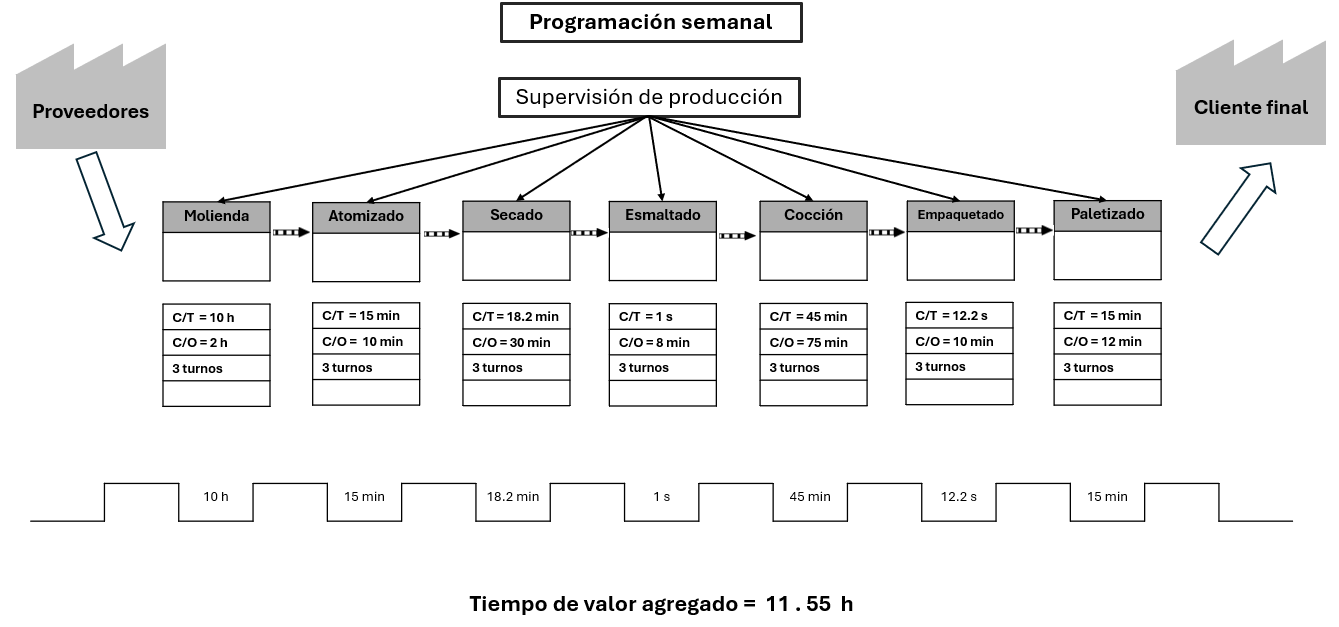
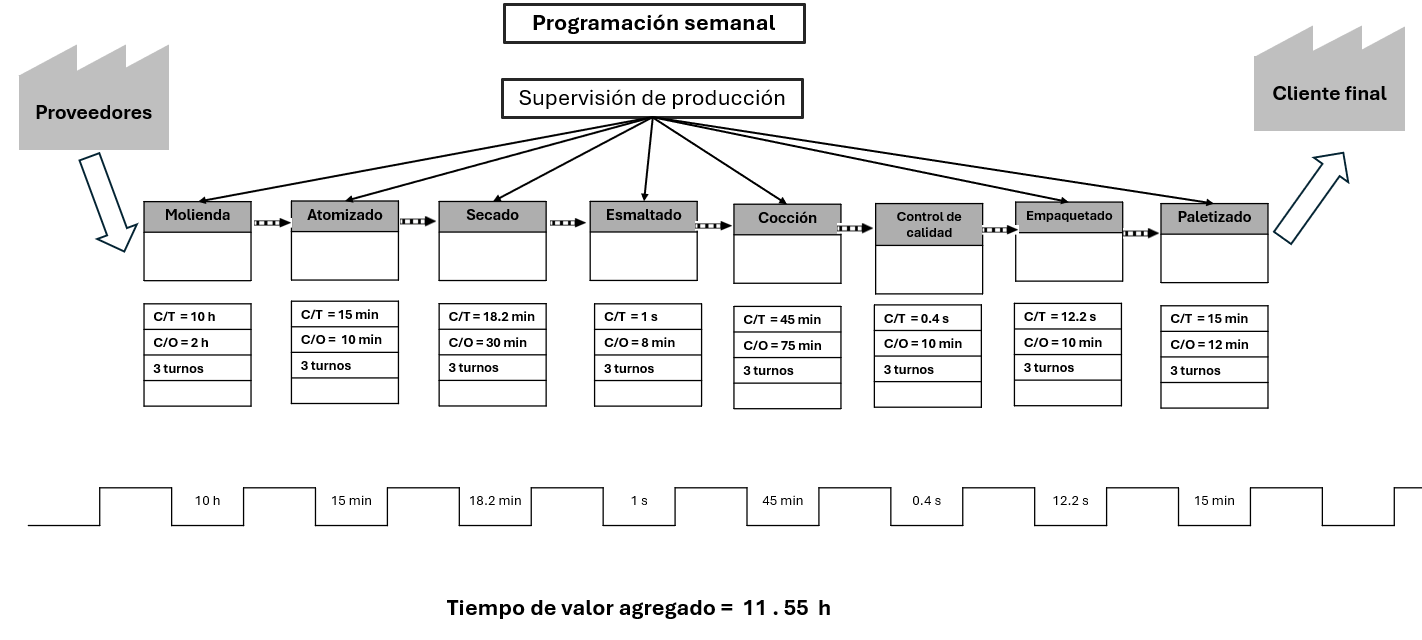
[DOCS]: control de calidad

diff --git a/docs/producto/3-analisis-economico.md b/docs/producto/3-analisis-economico.md
@@ -3,23 +3,40 @@
 El análisis económico se realiza con el fin de determinar la viabilidad del proyecto y evaluar su rentabilidad. Para ello se inicia por determinar el número de baldosas producidas por mes antes de la intervención, basados en la capacidad de producción de la planta y el tiempo de operación establecidos en la [gestión de producción](5-gestion-produccion#cuellos-de-botella-y-áreas-de-mejora).
 
 
-## Análisis de ingresos y egresos  mensuales por producción
+## Análisis de ingresos y egresos  mensuales de la fábrica
+
+Se inicia por hacer un estudio y determinar como era la situación de la fábrica antes de la intervención. Para tener una base de los costos de producción asi como los ingresos recibidos para fundamentar los beneficios que produce de la propuesta de automatización.
+
+## Antes de intervención
 
 ### Ingresos
 
+Basados en la producción bruta de baldosas mensuales se calcula el ingreso mensual de la fábrica. Se tiene que el 80% de las baldosas son de calidad tipo 1 y el 20% restante de calidad tipo 2. Basado en el costo de mercado de los productos de referencia Corona que fueron adaptados para definir los productos de la fabrica se tiene que el costo la caja de baldosas de de $38.113 COP para calidad tipo 1 y  30800 para las baldosas de calidad tipo 2.
+Obeniendo un ingreso de ventas de $5.399 millones de pesos mensuales.
+![ingrso](analisis-economico/before/ingresos.png)
+
 ### Costos de producción
 
-Para determinar los costos de producción se consideran los costos de insumos, mano de obra y otros costos asociados a la producción de baldosas cerámicas.
+Por otro lado para determinar los costos de producción se consideran los costos de insumos, mano de obra, costos de servicio de energia gas y agua; asi como los otros gastos asociados a la producción de baldosas cerámicas, como lo pueden ser el overhead de administración de la fabrica.
 
 #### Costos de insumos
+Para el cálculo de los costos de insumos se consideran los costos de las materias primas necesarias para la producción de baldosas cerámicas. Teniendo la producción mensual de baldosas asy como su peso de 522 g se calcula la cantidad de material necesario. se descompuso respecto a su porcentaje de composición de  Se tiene que el costo de las materias primas es de $ 2.231.422.848 COP mensuales.
+$$ *522 g =  [kg]$$
 
-![costos insumos](analisis-economico/costos-insumos.png)
+- Arcilla	49,01%
+- Feldespatos	24,51%
+- Arenas	14,70%
+- Carbonatos	6,86%
+- Caolines	2,94%
+- Esmalte	1,97%
+
+![costos insumos](analisis-economico/before/costos-insumos.png)
 
 #### Costo recursos Humano
 
 La planta antes de la intervención requiere el siguiente recurso humano. Para cubrir un puesto de trabajo 24 horas se requieren 4 cargos. En el costo mensual de cada cargo se incluye el salario básico más: las prestaciones sociales, los aportes a seguridad social (salud, pensiones y riesgos profesionales); la parafiscalidad (beneficios de caja de compensación familiar, SENA y ICBF); dotaciones y elementos de protección personal según lo establecido en el código sustantivo del trabajo. Estos costos corresponden aproximadamente a un 56% adicional al salario base del trabajador. Causandose un costo mensual de $212.472.000  COP.
 
-![costos recurso humano](analisis-economico/recurso-humano.png)
+![costos recurso humano](analisis-economico/before/recurso-humano.png)
 
 
 Se hace un estimado del costo incurrido por la fabrica de baldosas.
@@ -43,7 +60,8 @@ Se hace un estimado del costo incurrido por la fabrica de baldosas.
 <embed src="/Tile-Tech/analisis-economico/analisis-economico-ACTUAL.pdf" type="application/pdf" width="100%" height="600px" />
 </details>
 
-## Costos de inversión
+
+## Análisis económico del proyecto
 
 Para ello, se consideran los costos de inversión, los costos operativos, los ingresos esperados y el periodo de recuperación de la inversión.
 

diff --git a/docs/producto/5-gestion-produccion.md b/docs/producto/5-gestion-produccion.md
@@ -59,7 +59,7 @@ En la siguiente tabla se puede ver la capacidad de producción de cada proceso:
 
 Esto nos permite identificar que los cuellos de botella se encuentran en los procesos de esmaltado, empaquetado y paletizado.
 
-Viendo que el cuello de botella que restringe el proceso se encuentra en el esmaltado se establece el volumen real de producción de la planta. Para ello se  calcula la reducción de capacidad causada por perdidas debido a la calidad a la disponibilidad de la fabrica. Para la calidad no se toma el valor de calidad general de la planta ya que perdidas por calidad en procesos anteriores a la esmaltadora pueden compensarse con la capacidad excedente de producción que se tiene en estos procesos. Se calcula la calidad a partir del esmaltado que incluye los procesos de decorado, cocción y empaquetado obteniendo una calidad de 96.13%.
+Viendo que el cuello de botella que restringe el proceso se encuentra en el esmaltado se establece el volumen real de producción de la planta. Para ello se  calcula la reducción de capacidad causada por perdidas debido a la calidad a la disponibilidad de la fábrica. Para la calidad no se toma el valor de calidad general de la planta ya que perdidas por calidad en procesos anteriores a la esmaltadora pueden compensarse con la capacidad excedente de producción que se tiene en estos procesos. Se calcula la calidad a partir del esmaltado que incluye los procesos de decorado, cocción y empaquetado obteniendo una calidad de 96.13%.
 
 $$ Q = 0.9907*0.9906*0.9985*0.981=0.9613$$
 
@@ -102,13 +102,20 @@ A continuación se muestra un video donde se evidencia la simulación de la plan
 
 A continuación se anexan los reportes de la simulación de la planta antes y después de la intervención.
 
-## Reporte de tecnomatix previo a intervención
 
+## Reporte de tecnomatix 
+
+<details>
+  <summary> Anexo reporte de tecnomatix previo a intervención </summary>
 <iframe src="/Tile-Tech/report_tecnomatix_previous.pdf" type="application/pdf" width="100%" height="600px" ></iframe>
 
+</details>
 
-## Reporte de tecnomatix posterior a intervención
+<details>
+  <summary> Anexo reporte de tecnomatix posterior a intervención </summary>
 <iframe src="/Tile-Tech/report_tecnomatix_after.pdf" type="application/pdf" width="100%" height="600px" ></iframe>
+
+</details>
 
 
 
@@ -118,4 +125,5 @@ A continuación se anexan los reportes de la simulación de la planta antes y de
 -->
 
 ## Referencias
+
 1. 

diff --git a/docs/producto/1-analisis-disenio.md b/docs/producto/1-analisis-disenio.md
@@ -192,6 +192,14 @@ $ 14 * 3 * 3.5 m/min (60 min/h) = 8820 u/h$
 
 ![](analisis-disenio/1horno-maestro.png)
 
+### Control de calidad:
+
+Debido a procesos inherentes dentro de la fabricación de baldosas se tienen fluctuaciones en la calidad del producto. Dentro de la estación de control de calidad se separa las baldosas en tipo 1 y tipo 2 siendo las primeras de la mejor calidad y las segundas de calidad estándar. La maquina utilizada para este proceso es la SACMI Synthesis and Genusis La cual tiene una taza de producción de 150 unidades/min que equivale a 9000 baldosas hora. Estas se clasifican en 2 categorías. Categoría 1 la cual es de primera calidad y  categoría 2 que es de calidad estándar. Se tiene que la planta produce en las baldosas de calidad 1 y calidad 2 en una proporción de 4:1 es decir 80% y 20% respectivamente.
+
+![control_de_calidad](analisis-disenio/control_calidad.png){width=80%}
+
+![control_de_calidad](analisis-disenio/control_calidad_2.png){width=80%}
+
 
 ### Empaquetado:
 
@@ -229,3 +237,5 @@ SYNTHESIS Y GENUSIS
 3. Preparacion de polvos ceramicos atomizacion.[SACMI](https://sacmi.com/es-ES/ceramics/Azulejos/Preparacion-de-polvos-ceramicos/atomizacion/ATM)
 4. [Catalogo de prensa SACMI](/catalogos/1prensado_catalogo_prensa_SACMI.pdf) 
 5. [ficha técnica Egeo blanco de Corona](/catalogos/1productos_baldosas.pdf)
+6. [Video de referencia de proceso de empaquedato](https://youtu.be/rk26any7pKM?si=Vo3NG7W6ul343CLb)
+
